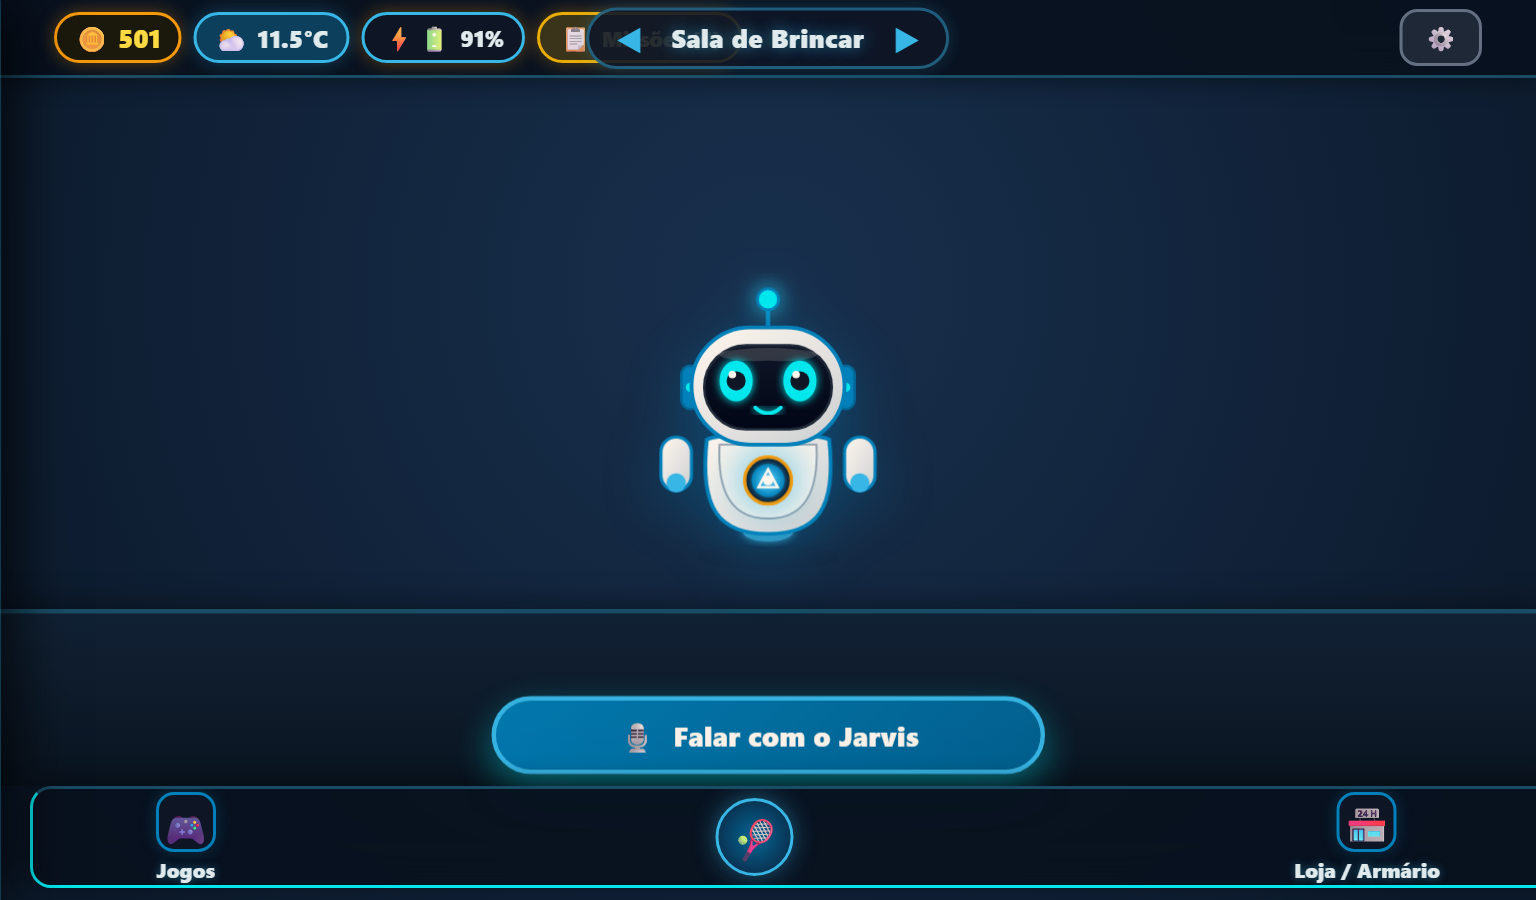
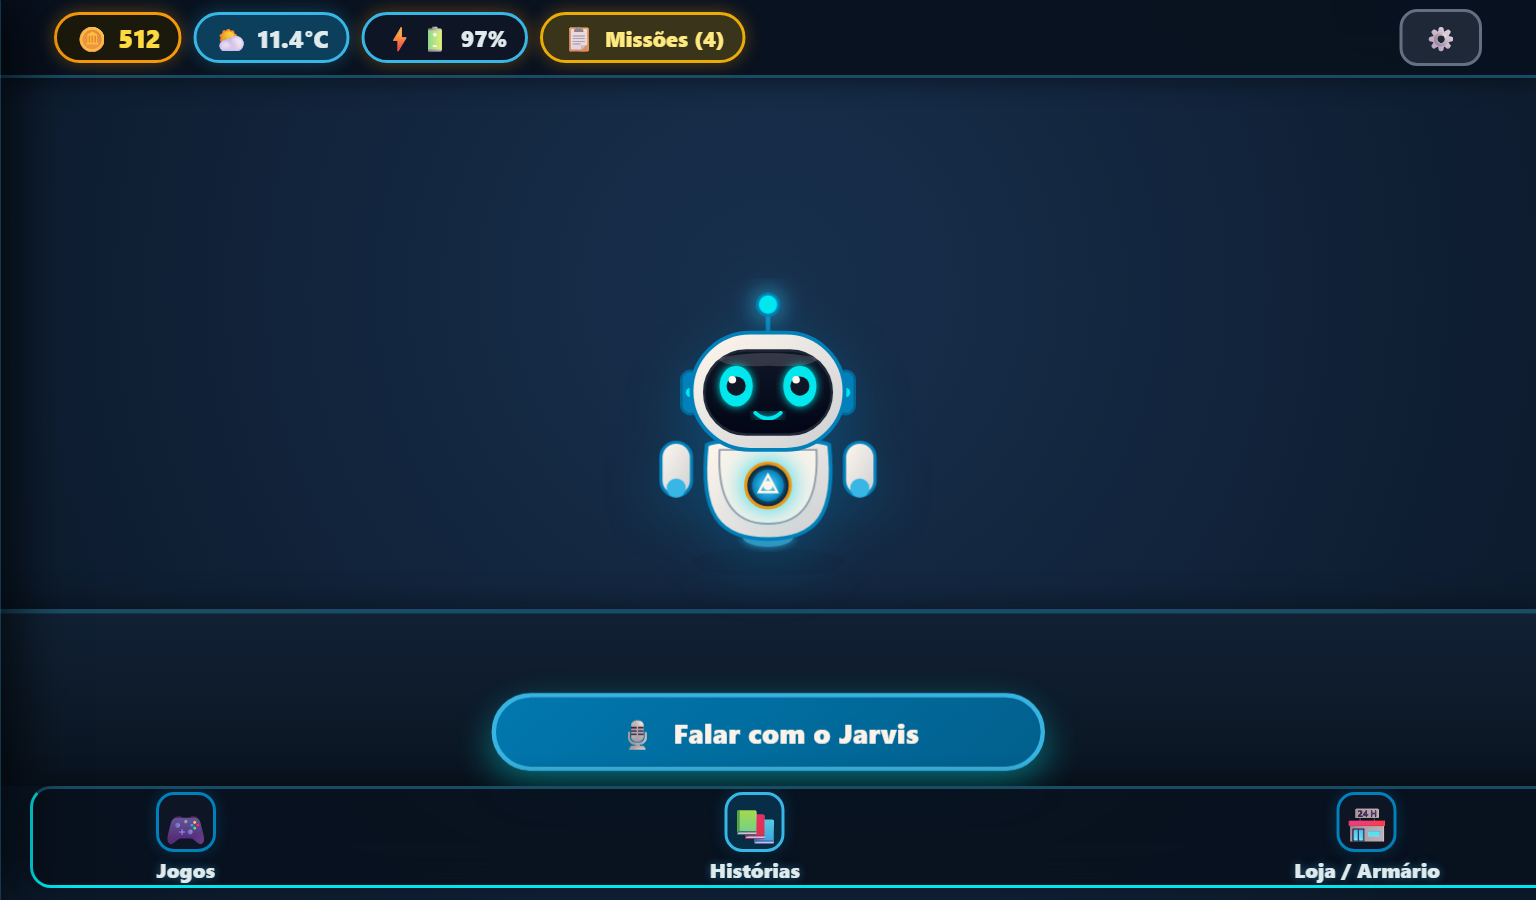
feat(hud): remover modal superior de comodos/sala de brincar e adicionar botao de historias na barra inferior

diff --git a/templates/hud_jarvis.html b/templates/hud_jarvis.html
@@ -2241,12 +2241,8 @@
         </div>
       </div>
 
-      <!-- NAVEGADOR DE CÔMODOS FUTURISTA TOUCH (CENTRO GEOMÉTRICO ABSOLUTO) -->
-      <div class="pou-room-nav-pill">
-        <button type="button" class="btn-room-arrow" onclick="trocarComodoPou(-1)" title="Cômodo Anterior">◀</button>
-        <span id="pou-room-title" class="pou-room-title">Sala de Brincar</span>
-        <button type="button" class="btn-room-arrow" onclick="trocarComodoPou(1)" title="Próximo Cômodo">▶</button>
-      </div>
+      <!-- ESPAÇO CENTRAL LIVRE E DESOBSTRUÍDO -->
+      <span id="pou-room-title" style="display:none;"></span>
 
       <!-- PAINEL DOS PAIS -->
       <button type="button" class="btn-parents" onclick="openParentsGate()" style="padding:6px 14px; font-size:1.05rem;" title="Painel dos Pais">⚙</button>
@@ -2260,11 +2256,7 @@
 
     <!-- 2. SALA CENTRAL DO ROBOZINHO J.A.R.V.I.S. (NO CENTRO DA TELA) -->
     <div class="pou-room-stage" id="pou-room-stage">
-      <!-- Cordinha do Abajur (Quarto) -->
-      <div class="pou-lamp-container" id="pou-lamp-cord" onclick="alternarAbajurSonoPou()" title="Puxar cordinha para dormir">
-        <div class="lamp-cord"></div>
-        <div class="lamp-knob"></div>
-      </div>
+
 
       <!-- O MASCOTE ROBOZINHO J.A.R.V.I.S. NO CENTRO (CARINHO AFETUOSO SEM LIGAR MICROFONE) -->
       <div class="pou-mascot-box lucky-mascot-box" id="pou-mascot" onclick="clicarNoJarvis(event)" title="Toque no Jarvis para dar carinho!">
@@ -2548,13 +2540,11 @@
         <span class="pou-btn-label">Jogos</span>
       </button>
 
-      <!-- FERRAMENTA DINÂMICA DO CÔMODO (CENTRO) -->
-      <div class="pou-center-tool" id="pou-room-tool-center">
-        <!-- Na Sala de Brincar: Bolinha -->
-        <button type="button" class="tool-circle-btn" id="btn-tool-active" onclick="acionarFerramentaComodo()" title="Brincar com a Bolinha do Jarvis">
-          🎾
-        </button>
-      </div>
+      <!-- BOTÃO HISTÓRIAS (ACESSO DIRETO À BIBLIOTECA MÁGICA) -->
+      <button type="button" class="pou-bottom-btn" onclick="openBooksLibrary()" title="Abrir Biblioteca Mágica de Histórias">
+        <div class="pou-btn-icon-box" style="border-color:#38bdf8; background:rgba(2,132,199,0.25);">📚</div>
+        <span class="pou-btn-label">Histórias</span>
+      </button>
 
       <!-- BOTÃO LOJA & ARMÁRIO (VESTIR ACESSÓRIOS & TESOURO REAL) -->
       <button type="button" class="pou-bottom-btn" onclick="abrirLojaTesouro()" title="Abrir Armário de Acessórios & Loja do Tesouro">
@@ -14475,20 +14465,7 @@
         return;
       }
 
-      // 2. Se na sala principal do Jarvis: swipe horizontal troca de cômodo!
-      if (Math.abs(deltaX) > 40 && Math.abs(deltaX) > Math.abs(deltaY) * 1.3 && deltaTime < 700) {
-        const target = e.target;
-        if (target && (target.closest('button') || target.closest('input') || target.closest('.pou-coin-badge') || target.closest('.pou-lamp-container'))) {
-          return;
-        }
-        if (deltaX < 0) {
-          // Deslizou para a esquerda -> próximo cômodo
-          trocarComodoPou(1);
-        } else {
-          // Deslizou para a direita -> cômodo anterior
-          trocarComodoPou(-1);
-        }
-      }
+      // Troca de cômodo desativada para evitar acidentes
     }, { passive: true });
 
     // CARREGAMENTO INSTANTÂNEO NO ARRANQUE (BOOT NO SEGUNDO ZERO)

diff --git a/README.md b/README.md
@@ -1,4 +1,4 @@
-# 🚀 J.A.R.V.I.S. Kids OS v3.6.5 — Edição Definitiva (Stark High Performance)
+# 🚀 J.A.R.V.I.S. Kids OS v3.6.6 — Edição Definitiva (Stark High Performance)
 
 Sistema operacional educativo, companheiro emocional e assistente gamificado estilo **JARVIS do Homem de Ferro**, projetado sob medida com princípios de engenharia de software de alta eficiência para netbooks modestos e computadores com recursos restritos (modelo original **Acer Aspire One / Asus Eee PC** com `Intel Atom 1.6 GHz`, `1 GB a 2 GB RAM`, tela `1024x600`), expandido para arquitetura **multiplataforma universal** compatível com **Linux Kiosk**, **Windows Desktop**, **macOS (.app)** e **Android (.apk autônomo offline)**!
 
@@ -8,10 +8,10 @@ Sistema operacional educativo, companheiro emocional e assistente gamificado est
 
 Telas reais capturadas diretamente do sistema em execução na resolução nativa do netbook (1024x600):
 
-| 🤖 1. HUD Principal — Sala de Brincar do Robô Jarvis | 🦸♂ 2. Quartel-General das Missões do Herói |
+| 🤖 1. HUD Principal — Sala de Comando do Robô Jarvis | 🦸♂ 2. Quartel-General das Missões do Herói |
 | :---: | :---: |
 | ![HUD Jarvis](docs/screenshots/01_hud_jarvis_sala_brincar.png) | ![Missões do Herói](docs/screenshots/02_missoes_do_heroi.png) |
-| *Mascote Jarvis interativo com humor emocional, clima em tempo real, economia de moedas no Pote do Tesouro, status de bateria e botões táteis gigantes.* | *Quartel-General de Missões reformulado com barra de conquista diária de super-herói, abas de filtro (Todas, Para Fazer, Concluídas) e atalhos rápidos.* |
+| *Mascote Jarvis interativo em tela desobstruída e limpa (sem modais superiores intrusivos), clima em tempo real, moedas do Pote do Tesouro, bateria e barra inferior com Jogos, Histórias e Loja.* | *Quartel-General de Missões reformulado com barra de conquista diária de super-herói, abas de filtro (Todas, Para Fazer, Concluídas) e atalhos rápidos.* |
 
 | 📚 3. Biblioteca Mágica de Histórias (Estante) | 🌟 4. Tela de Conquista & Celebração do Livro |
 | :---: | :---: |
@@ -32,6 +32,20 @@ Telas reais capturadas diretamente do sistema em execução na resolução nativ
 | :---: |
 | ![Quarto de Engenharia](docs/screenshots/09_quarto_engenharia.png) |
 | *Bancada de lógica computacional e robótica infantil estilo Google Blockly: a criança programa sequências de passos e ações para o robô Jarvis executar!* |
+
+---
+
+## 🌟 Novidades da Versão 3.6.6 (HUD Clean & Acesso Direto a Histórias)
+
+### 🚀 1. Interface Desobstruída & Limpa (Sem Modal Superior)
+- **Visão 100% Limpa e Espaçosa:** Remoção do modal flutuante superior ("Sala de Brincar") e do seletor de cômodos, eliminando distrações visuais e desobstruindo a área central para o robô Jarvis e para a criança.
+- **🛡 Proteção Anti-Deslize:** Desativação de gestos de swipe acidentais na tela principal que causavam trocas involuntárias de cenário ou escurecimento de tela.
+
+### 📚 2. Acesso Direto à Biblioteca Mágica na Barra Inferior
+- **Tríade de Ouro de Alta Usabilidade:** A barra inferior agora exibe 3 pilares imediatos de 1 toque:
+  1. `[🎮 Jogos]` — Central de 24 jogos educativos paginados.
+  2. `[📚 Histórias]` — Acesso direto e instantâneo à Biblioteca Mágica de Histórias com virtudes e valores (sem precisar caçar no catálogo).
+  3. `[🏪 Loja / Armário]` — Personalização de roupinhas/acessórios e Pote do Tesouro.
 
 ---
 
@@ -198,11 +212,11 @@ Os arquivos compilados são gerados automaticamente pelo [GitHub Actions CI/CD](
 
 | Formato | Plataforma Alvo | Arquivo de Download | Como Instalar / Executar |
 | :--- | :--- | :--- | :--- |
-| 🐧 **.deb** | Debian / antiX / Ubuntu / Raspberry Pi OS | `jarvis-kids-os_3.6.5.deb` | `sudo dpkg -i jarvis-kids-os_3.6.5.deb` |
-| 📦 **.tar.gz** | Linux Kiosk Standalone (Netbook Atom) | `jarvis-kids-os-3.6.5-linux-desktop.tar.gz` | `tar -xzf jarvis-kids-os-*.tar.gz && ./iniciar_jarvis_linux.sh` |
-| 🪟 **.zip** | Windows 7 / 10 / 11 (Desktop) | `jarvis-kids-os-3.6.5-windows-desktop.zip` | Extrair e clicar em `iniciar_jarvis_windows.bat` |
-| 📱 **.apk** | Android Celulares & Tablets Infantis | `jarvis-kids-os-3.6.5-android.apk` | Instalar no Android e permitir microfone (Modo Autônomo Offline Nativo) |
-| 🍏 **.app** | macOS (Intel & Apple Silicon M1/M2/M3) | `jarvis-kids-os-3.6.5-macos.app.zip` | Extrair e abrir `JARVIS-Kids-OS.app` |
+| 🐧 **.deb** | Debian / antiX / Ubuntu / Raspberry Pi OS | `jarvis-kids-os_3.6.6.deb` | `sudo dpkg -i jarvis-kids-os_3.6.6.deb` |
+| 📦 **.tar.gz** | Linux Kiosk Standalone (Netbook Atom) | `jarvis-kids-os-3.6.6-linux-desktop.tar.gz` | `tar -xzf jarvis-kids-os-*.tar.gz && ./iniciar_jarvis_linux.sh` |
+| 🪟 **.zip** | Windows 7 / 10 / 11 (Desktop) | `jarvis-kids-os-3.6.6-windows-desktop.zip` | Extrair e clicar em `iniciar_jarvis_windows.bat` |
+| 📱 **.apk** | Android Celulares & Tablets Infantis | `jarvis-kids-os-3.6.6-android.apk` | Instalar no Android e permitir microfone (Modo Autônomo Offline Nativo) |
+| 🍏 **.app** | macOS (Intel & Apple Silicon M1/M2/M3) | `jarvis-kids-os-3.6.6-macos.app.zip` | Extrair e abrir `JARVIS-Kids-OS.app` |
 | 📱 **PWA** | Smartphone dos Pais (iOS / Android) | Acesso direto via navegador | Acessar `/admin` e clicar em *Adicionar à Tela Inicial* |
 
 ---
@@ -239,7 +253,7 @@ Uma das maiores vantagens do JARVIS Kids OS quando instalado no **antiX Linux** 
 Basta baixar o arquivo `.deb` da versão mais recente (ou passar pelo pendrive) e executar no terminal do antiX:
 
 ```bash
-sudo dpkg -i jarvis-kids-os_3.6.5.deb
+sudo dpkg -i jarvis-kids-os_3.6.6.deb
 ```
 
 **Pronto! A partir desse momento, tudo é 100% automático:**
